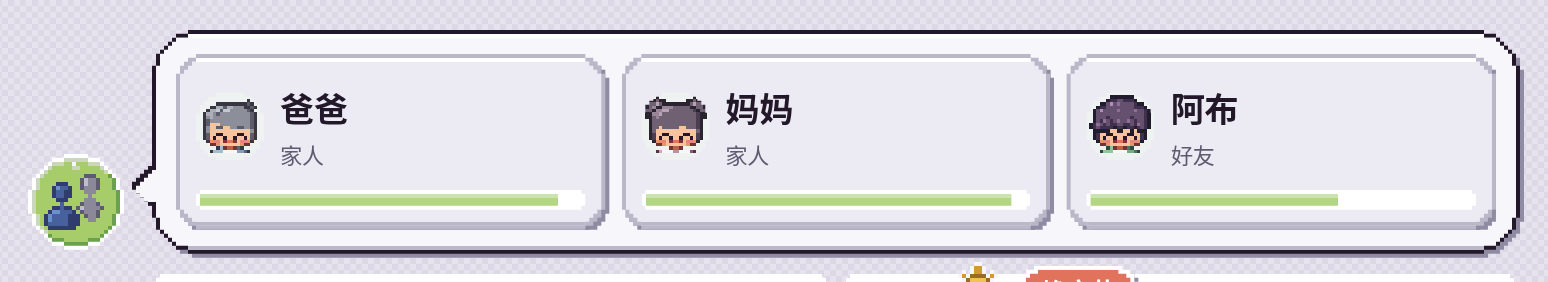
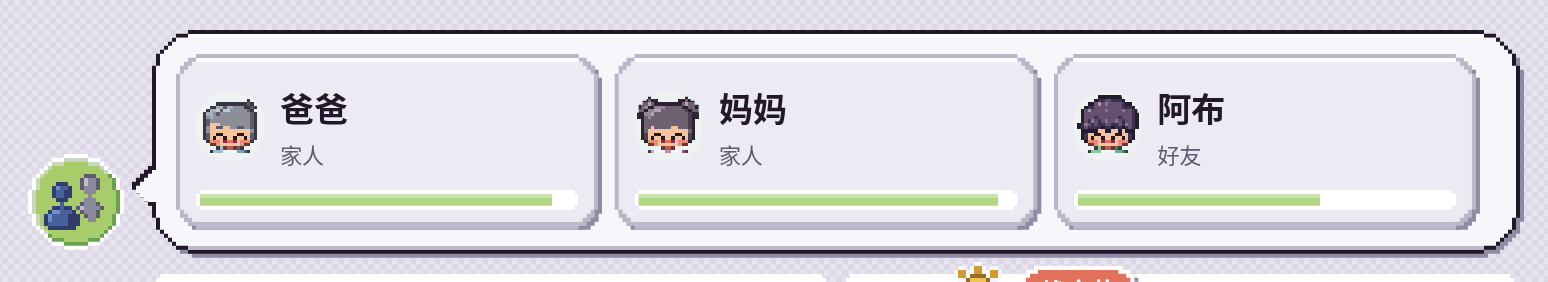
Add contacts for vertical scrolling and simplify HUD highlights

diff --git a/tools/check_social_hud.js b/tools/check_social_hud.js
@@ -43,14 +43,30 @@ const {chromium}=require('playwright');
  }
  assert.equal(await page.locator('#networkTrigger img').evaluate(img=>img.naturalWidth),16,'Use the palette-only pixel people icon');
  for(const selector of ['#networkTrigger','.contact-card'])assert.equal(await page.locator(selector).first().evaluate(el=>getComputedStyle(el).boxShadow),'none','Pixel frames must not inherit rectangular button shadows');
- assert.deepEqual(await page.locator('.contact-card').evaluateAll(els=>els.map(e=>e.dataset.id)),['dad','mom','abu']);
- assert.deepEqual(await page.locator('.contact-copy strong').allTextContents(),['爸爸','妈妈','阿布']);
+ assert.deepEqual(await page.locator('.contact-card').evaluateAll(els=>els.slice(0,3).map(e=>e.dataset.id)),['dad','mom','abu']);
+ assert.deepEqual((await page.locator('.contact-copy strong').allTextContents()).slice(0,3),['爸爸','妈妈','阿布']);
  assert.equal(await page.locator('.settings').evaluate(el=>getComputedStyle(el).visibility),'hidden');
  await page.screenshot({path:'/workspace/artifacts/social-hud/contacts.png'});
+ assert.equal(await page.locator('.contact-card').count(),12);
+ const list=page.locator('#contactsList'),listBox=await list.boundingBox();
+ assert.ok(await list.evaluate(el=>el.scrollHeight>el.clientHeight&&el.scrollWidth===el.clientWidth),'Vertical overflow only');
+ await page.mouse.move(listBox.x+listBox.width/2,listBox.y+listBox.height/2);
+ await page.mouse.wheel(0,140);await page.waitForTimeout(250);
+ assert.ok(await list.evaluate(el=>el.scrollTop)>0,'Wheel scrolls friends vertically');
+ await page.evaluate(()=>{const before=contactsList.scrollTop;contactsSig='';fillContacts();if(contactsList.scrollTop!==before)throw Error('Keep scroll position after refresh');});
+ await page.screenshot({path:'/workspace/artifacts/social-hud/contacts-scrolled.png'});
+ await list.evaluate(el=>el.scrollTop=0);await page.waitForTimeout(100);
+
  await page.locator('.contact-card[data-id="abu"]').click();await page.waitForTimeout(450);
  assert.equal(await page.locator('#contactActions button').count(),6);
  assert.equal(await page.locator('#contactActions [aria-disabled="true"]').count(),3);
  await page.screenshot({path:'/workspace/artifacts/social-hud/actions.png'});
+ await page.mouse.move(listBox.x+listBox.width/2,listBox.y+listBox.height/2);
+ await page.mouse.wheel(0,100);await page.waitForTimeout(200);
+ assert.equal(await page.locator('#contactActions').getAttribute('aria-hidden'),'true','Scroll dismisses detached action bubbles');
+ await list.evaluate(el=>el.scrollTop=0);await page.waitForTimeout(100);
+ await page.locator('.contact-card[data-id="abu"]').click();await page.waitForTimeout(400);
+
  await page.locator('#contactActions [data-action="text"]').click();
  assert.equal(await page.evaluate(()=>sim.chosen?.item?.contactId),'abu');
  assert.equal(await page.evaluate(()=>sim.chosen?.item?.talk?.name),'阿布');
@@ -72,7 +88,7 @@ const {chromium}=require('playwright');
   finishContactTalk('abu','text');finishContactTalk('abu','video');finishContactTalk('abu','video');
   if(socialState.contacts.find(c=>c.id==='abu').affinity!==before+6)throw Error('Daily friendship gain cap');
   socialState.contacts.push({id:'oldfriend',name:'小满',family:null,affinity:99,look:doll.PRESETS.f});
-  if(sortedContacts().map(c=>c.id).join()!=='dad,mom,oldfriend,abu')throw Error('Parents first, then affinity');
+  if(sortedContacts().slice(0,4).map(c=>c.id).join()!=='dad,mom,oldfriend,abu')throw Error('Parents first, then affinity');
   const saved=socialSnapshot();restoreSocial(saved);if(JSON.stringify(socialSnapshot())!==JSON.stringify(saved))throw Error('Contact save round trip');
  });
  // Queue behind a fresh line; only the incoming UI holds the clock, not the two-second grace period.
@@ -100,6 +116,13 @@ const {chromium}=require('playwright');
  assert.ok(Date.now()-ringStart>=5700&&Date.now()-ringStart<7200,'Six-second automatic rejection');
  assert.equal(await page.locator('#incomingCall').isHidden(),true);assert.deepEqual(await page.evaluate(()=>sim.queue),['read']);
  assert.ok(await page.locator('#log').textContent().then(t=>t.includes('六秒后停了')));
+ // Migrate existing three-person saves exactly once, preserving affection.
+ await page.evaluate(()=>{
+  const saved=socialSnapshot();delete saved.rosterVersion;saved.contacts=saved.contacts.filter(c=>['dad','mom','abu'].includes(c.id));
+  saved.contacts.find(c=>c.id==='abu').affinity=77;restoreSocial(saved);
+  if(socialState.contacts.length!==12||contactFor('friend','abu').affinity!==77)throw Error('Test roster migration');
+  const once=socialSnapshot();restoreSocial(once);if(socialState.contacts.length!==12)throw Error('Duplicate test roster');
+ });
  // Restore legacy saves with no social payload; never restore a ringing pause.
  await page.evaluate(()=>{const saved=snapshot();delete saved.social;restore(saved);if(sortedContacts().slice(0,2).map(c=>c.id).join()!=='dad,mom'||phoneHolds())throw Error('Legacy social migration');speed=0;});
  await page.setViewportSize({width:390,height:844});await page.waitForTimeout(550);
@@ -110,7 +133,22 @@ const {chromium}=require('playwright');
  await page.emulateMedia({reducedMotion:'reduce'});await page.reload();await page.waitForFunction(()=>booted);await page.waitForTimeout(1400);
  await page.evaluate(()=>{closeGuide();speed=0;setNeedsOpen(true);setContactsOpen(false);});
  assert.equal(await page.locator('#needsPanel').evaluate(el=>getComputedStyle(el).transitionDuration),'0s');
+ // A native touch scroll cancels its pointer; that must not close the panel.
+ const touch=await browser.newPage({viewport:{width:390,height:844},hasTouch:true,isMobile:true});
+ touch.on('pageerror',e=>errors.push(e.message));
+ await touch.goto(process.argv[2]||'http://127.0.0.1:8781/');await touch.waitForFunction(()=>booted);await touch.waitForTimeout(1600);
+ await touch.evaluate(()=>{closeGuide();speed=0;cardMoment=()=>false;rollCard=()=>false;rollEvents=()=>false;socialState.nextCall=1e9;setContactsOpen(true);});await touch.waitForTimeout(600);
+ const bounds=await touch.locator('#contactsList').boundingBox(),cdp=await touch.context().newCDPSession(touch),x=bounds.x+bounds.width/2,y=bounds.y+bounds.height-8;
+ await cdp.send('Input.dispatchTouchEvent',{type:'touchStart',touchPoints:[{x,y}]});
+ for(let i=1;i<=6;i++){await cdp.send('Input.dispatchTouchEvent',{type:'touchMove',touchPoints:[{x,y:y-i*10}]});await touch.waitForTimeout(30);}
+ await cdp.send('Input.dispatchTouchEvent',{type:'touchEnd',touchPoints:[]});await touch.waitForTimeout(500);
+ assert.ok(await touch.locator('#contactsList').evaluate(e=>e.scrollTop)>0,'Native touch swipe scrolls friends');
+ assert.equal(await touch.locator('#contactsPanel').getAttribute('aria-hidden'),'false','Touch cancellation keeps contacts open');
+ await touch.locator('.contact-card[data-id="xiaoye"]').scrollIntoViewIfNeeded();await touch.waitForTimeout(150);
+ await touch.locator('.contact-card[data-id="xiaoye"]').tap();await touch.waitForTimeout(400);
+ assert.equal(await touch.evaluate(()=>selectedContact),'xiaoye','Last friend remains interactive');
+ await touch.screenshot({path:'/workspace/artifacts/social-hud/mobile-scroll.png'});await touch.close();
  assert.deepEqual(errors,[]);
- console.log('PASS: pixel frames and glyph, staggered expand/reverse collapse, track-only hover, interrupted reversal, compact layout, stable parents-first contacts, action ring, targeted messages, capped affection, saved contacts, delayed incoming call, pause, distinct answer/decline, six-second timeout, legacy saves, mobile bounds and reduced motion.');
+ console.log('PASS: pixel frames and glyph, staggered expand/reverse collapse, track-only hover, interrupted reversal, compact layout, twelve contacts, vertical wheel scrolling, retained scroll position, migration, stable parents-first contacts, action ring, targeted messages, capped affection, saved contacts, delayed incoming call, pause, distinct answer/decline, six-second timeout, legacy saves, mobile bounds and reduced motion.');
  }finally{await browser.close();}
 })().catch(e=>{console.error(e);process.exitCode=1;});

diff --git a/prototype/demo/social_hud.js b/prototype/demo/social_hud.js
@@ -2,9 +2,18 @@
 const DEFAULT_CONTACTS=[
   {id:'dad',name:'爸爸',family:'dad',affinity:94,look:{...doll.PRESETS.m,style:'neat',hair:'#8c8e9a',top:'#8a9dae'}},
   {id:'mom',name:'妈妈',family:'mom',affinity:96,look:{...doll.PRESETS.f,style:'buns',hair:'#706172',top:'#bb8fa4',acc:[]}},
-  {id:'abu',name:'阿布',family:null,affinity:65,look:{...doll.PRESETS.m,style:'curly',hair:'#655070',top:'#7aa88a'}}
+  {id:'abu',name:'阿布',family:null,affinity:65,look:{...doll.PRESETS.m,style:'curly',hair:'#655070',top:'#7aa88a'}},
+  {id:'xiaoyu',name:'小雨',family:null,affinity:60,look:{...doll.PRESETS.f,style:'bob',hair:'#5b475e',top:'#92abc6'}},
+  {id:'linzhou',name:'林舟',family:null,affinity:56,look:{...doll.PRESETS.m,style:'neat',hair:'#484354',top:'#b39476'}},
+  {id:'tangtang',name:'糖糖',family:null,affinity:50,look:{...doll.PRESETS.f,style:'twin',hair:'#9b6a52',top:'#cc92a3'}},
+  {id:'achen',name:'阿辰',family:null,affinity:44,look:{...doll.PRESETS.m,style:'messy',hair:'#6a5551',top:'#8c9cae'}},
+  {id:'xiaokui',name:'小葵',family:null,affinity:38,look:{...doll.PRESETS.f,style:'pony',hair:'#80633f',top:'#d6b77a'}},
+  {id:'muzi',name:'木子',family:null,affinity:30,look:{...doll.PRESETS.f,style:'long',hair:'#413d51',top:'#91ad9a'}},
+  {id:'dake',name:'大可',family:null,affinity:22,look:{...doll.PRESETS.m,style:'buzz',hair:'#675448',top:'#b59bc5'}},
+  {id:'ningning',name:'宁宁',family:null,affinity:14,look:{...doll.PRESETS.f,style:'buns',hair:'#6a5063',top:'#a1bfcc'}},
+  {id:'xiaoye',name:'小野',family:null,affinity:8,look:{...doll.PRESETS.m,style:'curly',hair:'#986b51',top:'#bfa27e'}}
 ];
-const socialState={contacts:DEFAULT_CONTACTS.map(c=>({...c,look:doll.normalize(c.look)})),nextCall:null};
+const socialState={contacts:DEFAULT_CONTACTS.map(c=>({...c,look:doll.normalize(c.look)})),nextCall:null,rosterVersion:1};
 const networkTrigger=document.getElementById('networkTrigger'),contactsPanel=document.getElementById('contactsPanel');
 const contactsList=document.getElementById('contactsList'),contactActions=document.getElementById('contactActions');
 const incomingCall=document.getElementById('incomingCall');
@@ -36,7 +45,7 @@ function drawContactAvatar(canvas,c){
 }
 function fillContacts(){
   const contacts=sortedContacts(),sig=JSON.stringify(contacts.map(c=>[c.id,c.name,c.family,c.affinity,c.look]));if(sig===contactsSig)return;
-  contactsSig=sig;contactsList.replaceChildren();
+  contactsSig=sig;const scrollTop=contactsList.scrollTop;contactsList.replaceChildren();
   for(const c of contacts){
     const card=document.createElement('button');card.type='button';card.className='contact-card';card.dataset.id=c.id;
     card.setAttribute('aria-label',`${contactName(c)}，${contactRelation(c)}，好感 ${Math.round(c.affinity)}`);card.setAttribute('aria-expanded',String(selectedContact===c.id));
@@ -46,6 +55,7 @@ function fillContacts(){
     const meter=document.createElement('span');meter.className='affinity';meter.title=`好感 ${Math.round(c.affinity)} / 100`;meter.style.setProperty('--affinity',c.affinity);meter.append(document.createElement('i'));
     card.append(avatar,copy,meter);contactsList.append(card);
   }
+  contactsList.scrollTop=scrollTop;
 }
 function revealNetwork(){clearTimeout(networkCloseT);moodrow.classList.add('network-ready');}
 function queueNetworkClose(){clearTimeout(networkCloseT);networkCloseT=setTimeout(()=>{if(!moodrow.classList.contains('contacts-open'))moodrow.classList.remove('network-ready');},300);}
@@ -62,13 +72,14 @@ function queueContactsClose(){clearTimeout(contactsCloseT);if(!selectedContact)c
 moodFace.addEventListener('pointerenter',e=>{if(e.pointerType==='mouse')revealNetwork();});
 moodFace.addEventListener('pointerleave',queueNetworkClose);moodFace.addEventListener('focus',revealNetwork);
 moodFace.addEventListener('click',revealNetwork);
-moodrow.addEventListener('pointerleave',()=>{queueNetworkClose();queueContactsClose();});
+moodrow.addEventListener('pointerleave',e=>{if(e.pointerType==='touch')return;queueNetworkClose();queueContactsClose();});
 networkTrigger.addEventListener('pointerenter',e=>{revealNetwork();if(e.pointerType==='mouse')setContactsOpen(true);});
 networkTrigger.addEventListener('focus',revealNetwork);
 networkTrigger.addEventListener('click',()=>setContactsOpen(!moodrow.classList.contains('contacts-open')));
 contactsPanel.addEventListener('pointerenter',()=>{clearTimeout(contactsCloseT);clearTimeout(networkCloseT);});
-contactsPanel.addEventListener('pointerleave',queueContactsClose);
+contactsPanel.addEventListener('pointerleave',e=>{if(e.pointerType!=='touch')queueContactsClose();});
 contactsPanel.addEventListener('focusout',e=>{if(!contactsPanel.contains(e.relatedTarget)&&!contactActions.contains(e.relatedTarget)&&e.relatedTarget!==networkTrigger)queueContactsClose();});
+contactsList.addEventListener('scroll',()=>closeContactActions(),{passive:true});
 contactsList.addEventListener('click',e=>{const card=e.target.closest('.contact-card');if(card)openContactActions(card.dataset.id);});
 function closeContactActions(){selectedContact=null;contactActions.classList.remove('on');contactActions.inert=true;contactActions.setAttribute('aria-hidden','true');contactsList.querySelectorAll('button').forEach(b=>b.setAttribute('aria-expanded','false'));}
 function openContactActions(id){
@@ -200,7 +211,7 @@ function tickSocial(dt,now){
     showSay(text,who);session.said.push([who,text]);session.wait=Math.min(4.6,Math.max(2.6,1.4+(who+text).length*.13));
   }
 }
-function socialSnapshot(){return {contacts:socialState.contacts.map(c=>({id:c.id,name:c.name,family:c.family||null,affinity:c.affinity,look:doll.normalize(c.look),lastContact:c.lastContact??null,gainDay:c.gainDay??null,dailyGain:c.dailyGain||0})),nextCall:socialState.nextCall};}
+function socialSnapshot(){return {rosterVersion:socialState.rosterVersion,contacts:socialState.contacts.map(c=>({id:c.id,name:c.name,family:c.family||null,affinity:c.affinity,look:doll.normalize(c.look),lastContact:c.lastContact??null,gainDay:c.gainDay??null,dailyGain:c.dailyGain||0})),nextCall:socialState.nextCall};}
 function restoreSocial(data){
   clearTimeout(phoneCall.timeout);clearTimeout(phoneCall.exitTimer);phoneCall.phase='idle';phoneCall.contactId=null;incomingCall.hidden=true;moodTalk.classList.remove('phone-active');remoteSocial=null;
   const list=Array.isArray(data?.contacts)?data.contacts:DEFAULT_CONTACTS;
@@ -209,6 +220,8 @@ function restoreSocial(data){
     if(!c||typeof c.id!=='string'||!/^[-a-zA-Z0-9_]{1,64}$/.test(c.id)||seen.has(c.id)||typeof c.name!=='string'||!c.name.trim())continue;
     seen.add(c.id);socialState.contacts.push({id:c.id,name:c.name.slice(0,24),family:c.id==='dad'?'dad':c.id==='mom'?'mom':null,affinity:Number.isFinite(c.affinity)?clamp(c.affinity):50,look:doll.normalize(c.look||doll.PRESETS.m),lastContact:Number.isFinite(c.lastContact)?c.lastContact:null,gainDay:Number.isInteger(c.gainDay)?c.gainDay:null,dailyGain:Number.isFinite(c.dailyGain)?Math.max(0,Math.min(6,c.dailyGain)):0});
   }
-  for(const c of DEFAULT_CONTACTS.slice(0,2))if(!seen.has(c.id))socialState.contacts.push({...c,look:doll.normalize(c.look)});
-  socialState.nextCall=Number.isFinite(data?.nextCall)?data.nextCall:null;contactsSig='';selectedContact=null;
+  // Add the scrolling-test roster once, without changing existing identities or affection.
+  const additions=data?.rosterVersion>=1?DEFAULT_CONTACTS.slice(0,2):DEFAULT_CONTACTS;
+  for(const c of additions)if(!seen.has(c.id))socialState.contacts.push({...c,look:doll.normalize(c.look)});
+  socialState.rosterVersion=1;socialState.nextCall=Number.isFinite(data?.nextCall)?data.nextCall:null;contactsSig='';selectedContact=null;
 }

diff --git a/prototype/demo/social_hud.css b/prototype/demo/social_hud.css
@@ -50,7 +50,7 @@ html.desktop .desk { padding-left:76px; }
 .moodrow.contacts-open { z-index:50; }
 .moodrow.contacts-open .contacts-panel { opacity:1; visibility:visible; pointer-events:auto; transform:none; transition-delay:0s; }
 .moodrow.contacts-open>.settings,.moodrow.contacts-open>.diary,.moodrow.contacts-open>.mood-face,.moodrow.contacts-open>.mood-talk { visibility:hidden; pointer-events:none; }
-.contacts-list { position:relative; display:grid; grid-auto-flow:column; grid-auto-columns:calc((100% - 16px)/3); gap:8px; height:100%; overflow-x:auto; overscroll-behavior:contain; scrollbar-width:thin; scrollbar-color:var(--bevel-lo) transparent; }
+.contacts-list { position:relative; display:grid; grid-template-columns:repeat(3,minmax(0,1fr)); grid-auto-rows:100%; gap:8px; height:100%; overflow-x:hidden; overflow-y:auto; touch-action:pan-y; scrollbar-gutter:stable; overscroll-behavior:contain; scrollbar-width:thin; scrollbar-color:var(--bevel-lo) transparent; }
 .contact-card { position:relative; --hud-outline:var(--hud-card-clip); --hud-inner:var(--hud-card-in); --hud-frame:var(--bevel-lo); --hud-surface:var(--panel-2); display:grid; grid-template-columns:34px minmax(0,1fr); grid-template-rows:minmax(0,1fr) 10px; align-items:center; gap:5px 8px; height:100%; min-width:0; margin:0; padding:10px; color:var(--ink); text-align:left; transition:transform .25s var(--hud-settle); }
 .contact-card:hover,.contact-card[aria-expanded="true"] { --hud-frame:var(--accent); --hud-surface:var(--accent-soft); }
 .contact-card:active { transform:scale(.98); }
@@ -96,5 +96,5 @@ html.desktop .desk { padding-left:76px; }
 @keyframes call-time { to { transform:scaleX(0); } }
 @keyframes call-accept { 30% { transform:scale(1.015); opacity:1; } to { transform:translateX(-12px) scale(.94); opacity:0; } }
 @keyframes call-decline { to { transform:translateY(10px) scale(.96); opacity:0; } }
-@media (max-width:600px) { .desk { padding-left:64px; padding-right:14px; } .network-trigger { width:42px; height:42px; top:5px; padding:5px; } .moodrow.network-ready .network-trigger,.moodrow.contacts-open .network-trigger { transform:translateX(-50px); } .contact-card { grid-template-columns:26px minmax(0,1fr); gap:4px; padding:7px; } .contact-card canvas { width:26px; height:26px; } .contact-copy strong { font-size:11px; } .contact-copy small { font-size:10px; } .contacts-panel { padding:8px; } .contacts-list { grid-auto-columns:calc((100% - 8px)/2.35); gap:6px; } .needs-panel { gap:4px; padding-inline:6px; } .need-label { font-size:9px; } .incoming-call { gap:4px; padding-inline:4px; } .caller-avatar,.caller-avatar canvas { width:28px; height:28px; } .caller-copy strong { font-size:11px; } .caller-copy span { font-size:10px; } .incoming-call button { padding:7px 6px; font-size:10px; } .contact-actions button { font-size:12px; padding:6px 12px; } }
+@media (max-width:600px) { .desk { padding-left:64px; padding-right:14px; } .network-trigger { width:42px; height:42px; top:5px; padding:5px; } .moodrow.network-ready .network-trigger,.moodrow.contacts-open .network-trigger { transform:translateX(-50px); } .contact-card { grid-template-columns:26px minmax(0,1fr); gap:4px; padding:7px; } .contact-card canvas { width:26px; height:26px; } .contact-copy strong { font-size:11px; } .contact-copy small { font-size:10px; } .contacts-panel { padding:8px; } .contacts-list { grid-template-columns:repeat(2,minmax(0,1fr)); gap:6px; } .needs-panel { gap:4px; padding-inline:6px; } .need-label { font-size:9px; } .incoming-call { gap:4px; padding-inline:4px; } .caller-avatar,.caller-avatar canvas { width:28px; height:28px; } .caller-copy strong { font-size:11px; } .caller-copy span { font-size:10px; } .incoming-call button { padding:7px 6px; font-size:10px; } .contact-actions button { font-size:12px; padding:6px 12px; } }
 @media (prefers-reduced-motion:reduce) { .needs-panel,.needs-summary,.need-well,.need img,.need-label,.network-trigger,.contacts-panel,.contact-card,.contact-actions,.contact-actions button,.network-trigger img,.incoming-call button,.need .fill { transition:none !important; } .incoming-call,.caller-avatar canvas,.caller-avatar i { animation:none; } .incoming-call.accepting,.incoming-call.declining { animation:none; opacity:0; } .caller-avatar i { display:none; } }

diff --git a/prototype/demo/guide_text.js b/prototype/demo/guide_text.js
@@ -63,7 +63,7 @@ const GUIDE = [
     lead: "把鼠标移到情绪表情，再移到它左侧的人脉图标。",
     points: [
       "[1] 人脉入口：悬停展开；触屏可以点击",
-      "[2] 爸爸、妈妈固定在前，其他亲友按好感排序",
+      "[2] 爸爸、妈妈固定在前，其他亲友按好感排序，上下滚动查看更多",
       "[3] 点卡片发消息或打视频，聊天结束会留下日记、增加好感",
     ],
     tip: "串门与同行下一步开放。来电会暂停时间，六秒未接自动拒绝；拒接不扣好感。" },

diff --git a/art/src/concept/ui_icons.py b/art/src/concept/ui_icons.py
@@ -127,9 +127,9 @@ def relief_plate(size=14, radius=6, kind="green") -> Sprite:
     The 14px version has 6px corners for CSS nine-slice scaling at 2x;
     badge versions map 1:1 to desktop/mobile inner discs at the same 2x.
     """
-    shadow, face, light, glint = (
-        (P.coral[2], P.coral[3], P.coral[4], P.skin[4]) if kind == "red"
-        else (P.green[3], P.green[4], P.sage[4], P.linen[3])
+    shadow, face, light = (
+        (P.coral[2], P.coral[3], P.coral[4]) if kind == "red"
+        else (P.green[3], P.green[4], P.sage[4])
     )
     mask = [[False] * size for _ in range(size)]
     for y in range(size):
@@ -147,12 +147,6 @@ def relief_plate(size=14, radius=6, kind="green") -> Sprite:
             shaded = not inside(x + 1, y) or not inside(x, y + 1)
             color = light if lit and x + y < size else shadow if shaded else face
             out.set(x, y, color)
-    # A short, stepped reflection follows the upper-left shoulder of the face.
-    for x in range(radius - 1, size // 2 + 1):
-        if inside(x, 2):
-            out.set(x, 2, light)
-    if inside(radius - 1, 1):
-        out.set(radius - 1, 1, glint)
     return out
 
 
